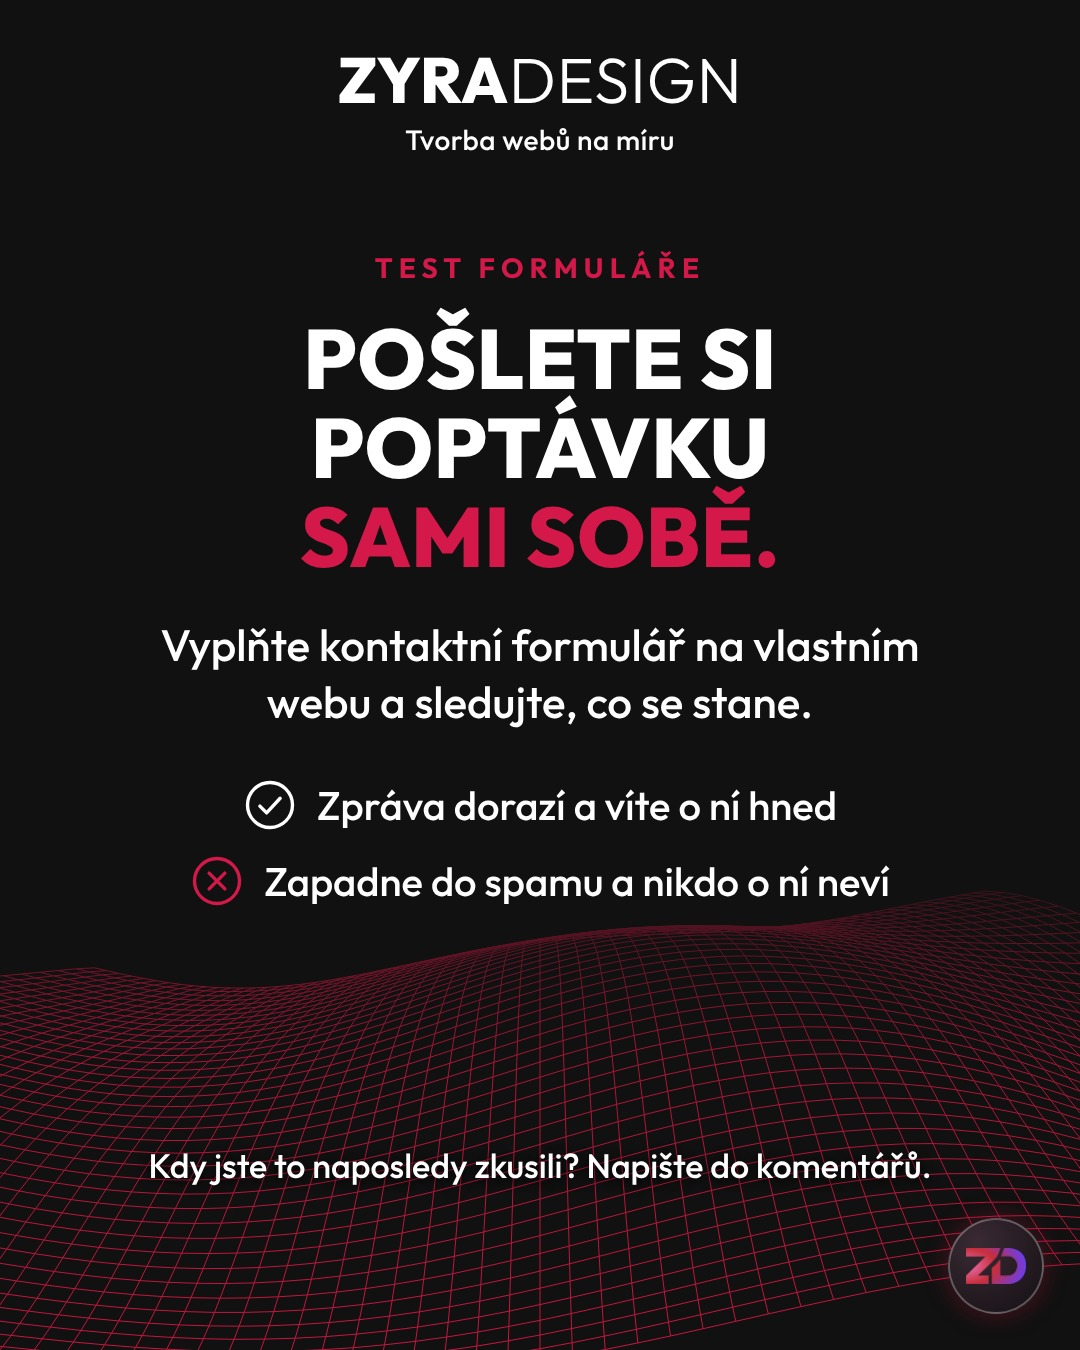
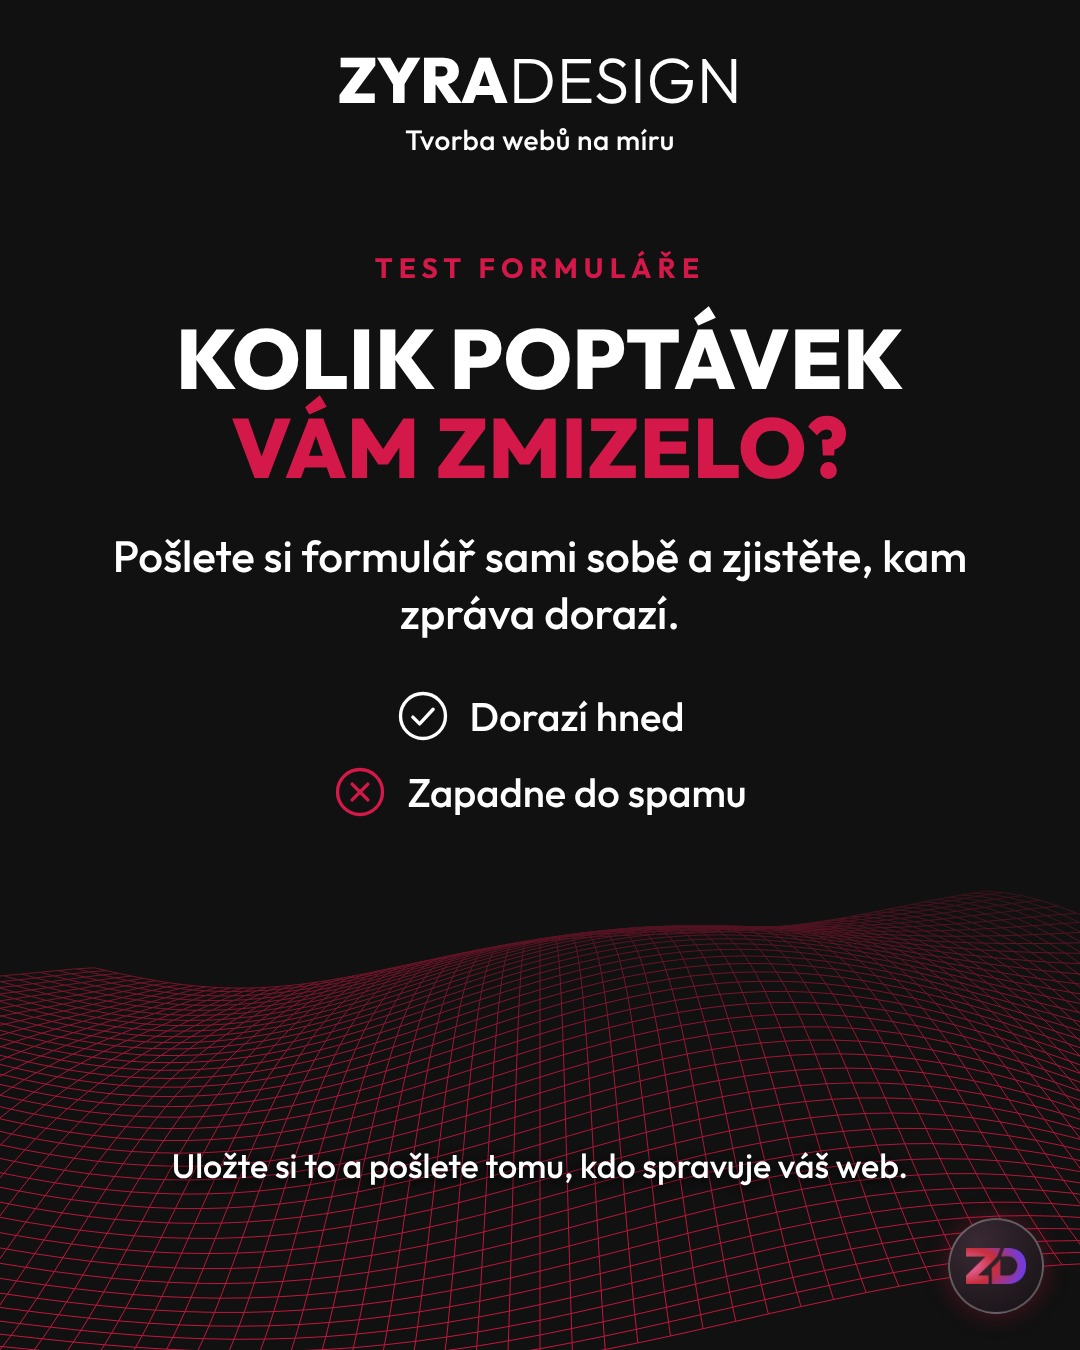
Stronger headline and CTA for form-test post
Claude-Session: https://claude.ai/code/session_018ShZqxB7k46hvYjrw2YhLy

Changed region(s): [[0.0917, 0.2178, 0.8861, 0.6844], [0.1222, 0.84, 0.8556, 0.8711], [0.1833, 0.6222, 0.2139, 0.6844]]

diff --git a/posts/log.md b/posts/log.md
@@ -4,5 +4,5 @@ Před každým novým postem přečíst celý soubor. Žádné téma, nadpis ani
 
 | Datum | Typ | Nadpis | Pointa | Složka |
 |---|---|---|---|---|
-| 2026-11-07 | Mikro-test | Pošlete si poptávku sami sobě | Odešlete si vlastní kontaktní formulář a ověřte, že zpráva dorazí | posts/2026-11-07-test-formulare |
+| 2026-11-07 | Mikro-test | Kolik poptávek vám zmizelo? (test formuláře) | Odešlete si vlastní kontaktní formulář a ověřte, že zpráva dorazí a neskončí ve spamu | posts/2026-11-07-test-formulare |
 | (nepublikováno, vyřazeno) | Mikro-test | Palcový test na mobilu | Mobilní téma už studio dříve dělalo, žádné další mobilní palcové/tlačítkové téma | - |
